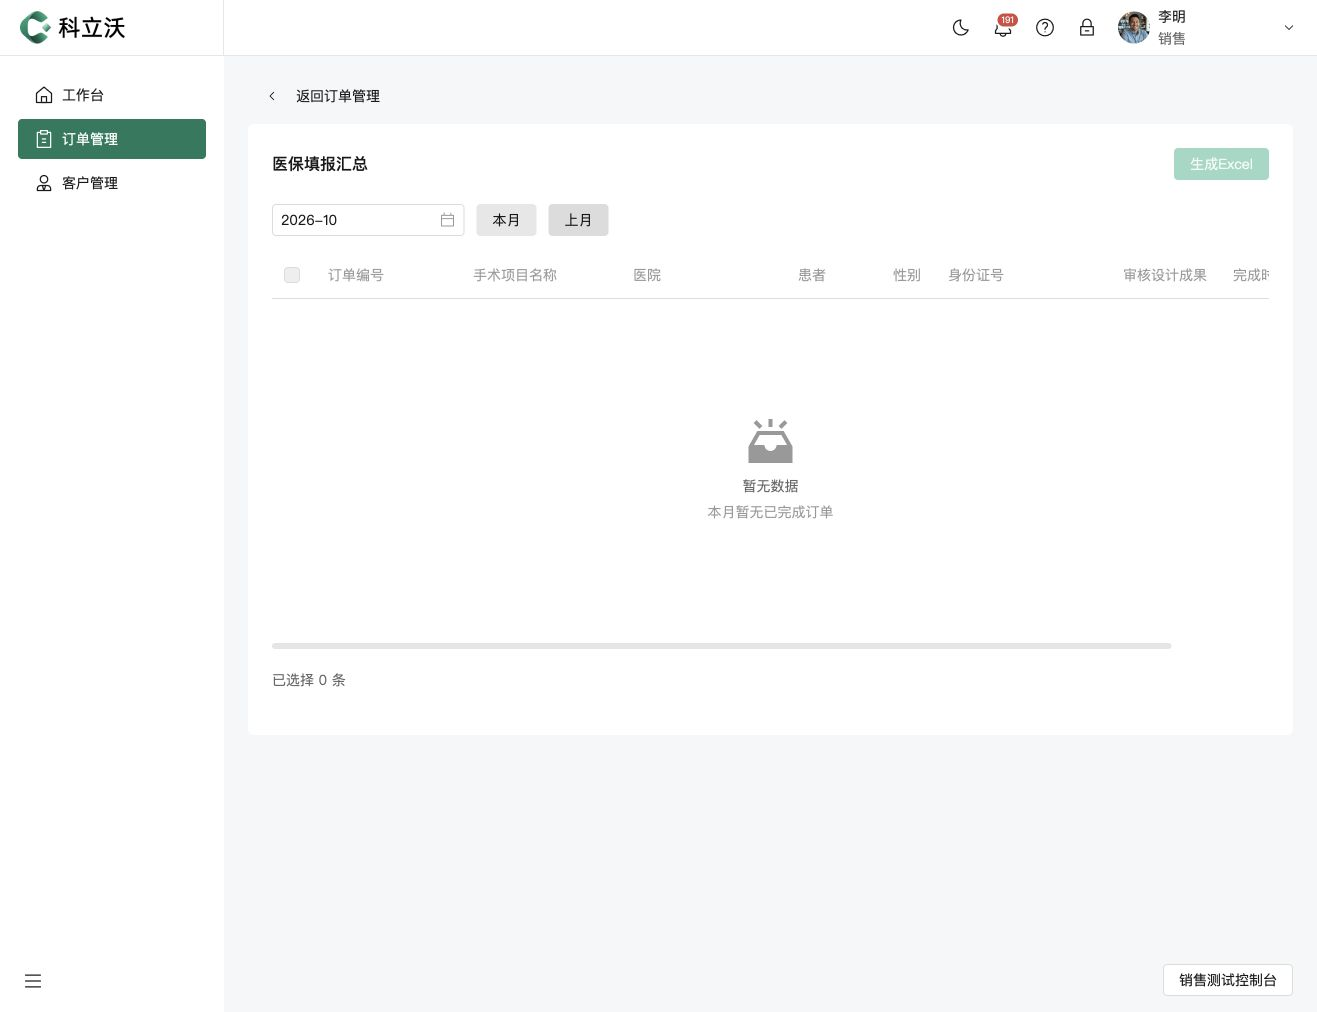
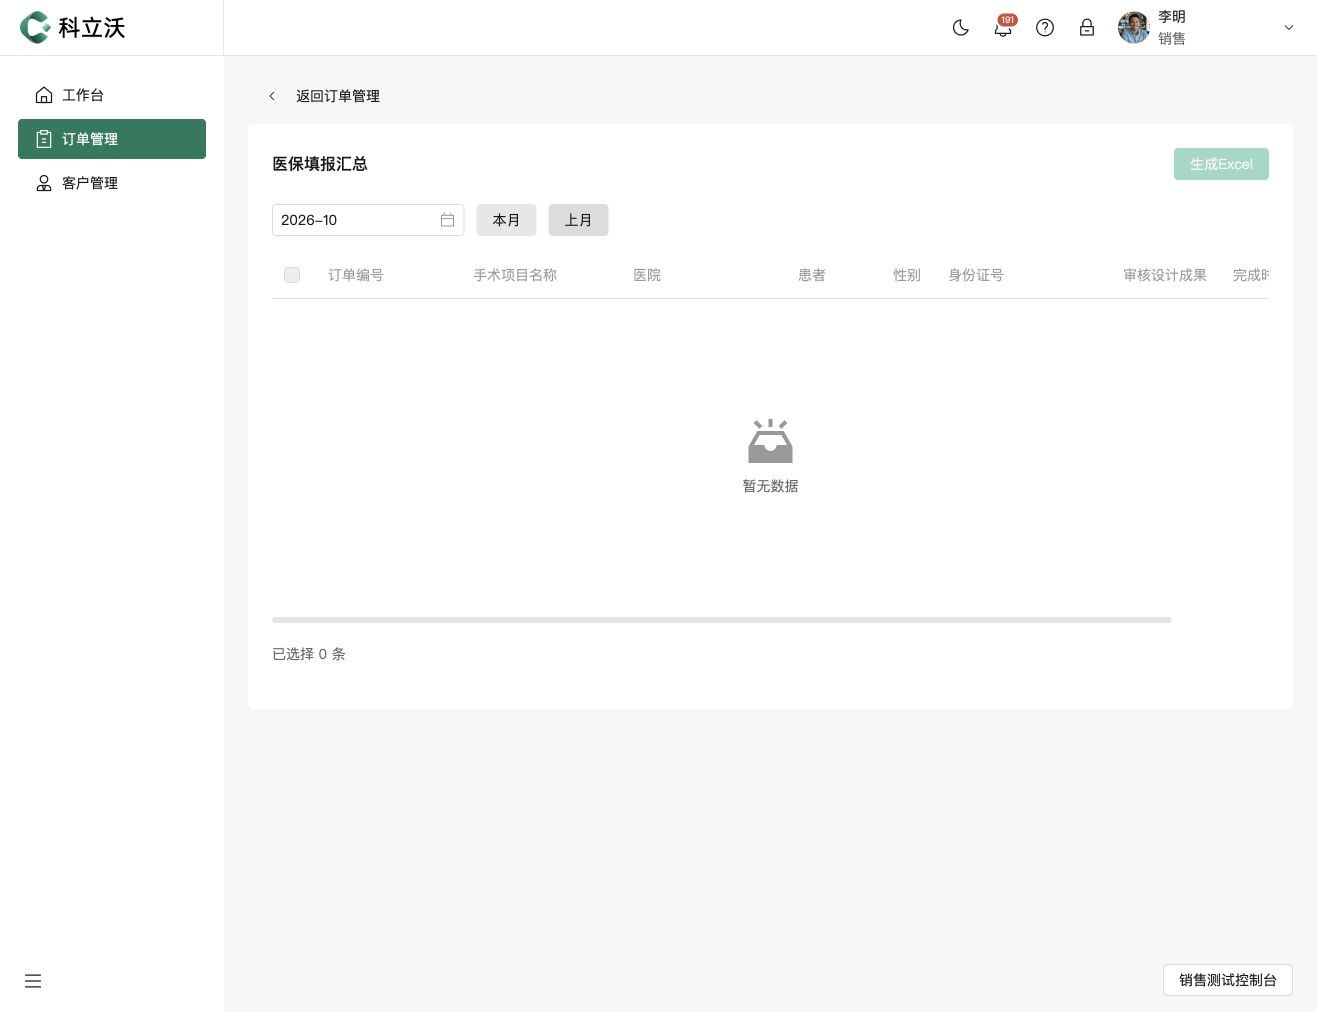
fix: remove redundant insurance empty description

Changed region(s): [[0.2179, 0.6126, 0.9028, 0.6739], [0.5292, 0.4901, 0.6226, 0.5208]]

diff --git a/src/sales/business/InsuranceSummary.tsx b/src/sales/business/InsuranceSummary.tsx
@@ -56,5 +56,5 @@ export function InsuranceSummary({ cancel, data }: {
             setBusy(false);
         }
     };
-    return <div className="project-page project-detail-page business-insurance"><PageBack label="返回订单管理" onBack={cancel}/><Card bordered={false} className="project-info-card"><div className="project-page-heading"><h2>医保填报汇总</h2><Button theme="primary" disabled={!allowed || !ids.length} loading={busy} onClick={() => void exporting()}>生成Excel</Button></div><div className="sales-actions business-month-filter"><DatePicker mode="month" value={month} onChange={v => setMonth(String(v).slice(0, 7))}/><Button theme="default" onClick={() => setMonth(currentMonth())}>本月</Button><Button theme="default" onClick={() => { const d = new Date(); d.setDate(1); d.setMonth(d.getMonth() - 1); setMonth(`${d.getFullYear()}-${String(d.getMonth() + 1).padStart(2, '0')}`); }}>上月</Button></div><div className="viewport-table" ref={paging.ref}><Table tableLayout="fixed" loading={busy} rowKey="id" data={orders.slice(paging.start,paging.end)} selectedRowKeys={ids} onSelectChange={setIds} empty={<Empty description="本月暂无已完成订单"/>} columns={[{ colKey: 'row-select', type: 'multiple', width: 40 }, { colKey: 'businessNo', title: '订单编号', width: 145, ellipsis: true }, { colKey: 'surgery', title: '手术项目名称', width: 160, ellipsis: true, cell: ({ row }) => row.surgery || '—' }, { colKey: 'hospital', title: '医院', width: 165, ellipsis: true }, { colKey: 'patientName', title: '患者', width: 95 }, { colKey: 'sex', title: '性别', width: 55, cell: ({ row }) => row.sex || '—' }, { colKey: 'maskedIdentity', title: '身份证号', width: 175, cell: ({ row }) => row.maskedIdentity || '—' }, { colKey: 'image', title: '审核设计成果', width: 110, cell: ({ row }) => row.image ? <button className="business-result-thumb" aria-label={'预览' + row.businessNo + '成果'} onClick={() => setPreview(row.image)}><img src={row.image} alt={row.businessNo + '审核设计成果'}/></button> : '—' }, { colKey: 'completedAt', title: '完成时间', width: 160, cell: ({ row }) => formatDateTime(row.completedAt) }]}/><div className="project-pagination business-insurance-pagination" data-viewport-pagination><span>已选择 {ids.length} 条</span>{paging.showPagination&&<Pagination current={paging.page} pageSize={paging.pageSize} total={orders.length} showPageSize={false} showJumper={false} onCurrentChange={paging.setPage}/>}</div></div>{error && <Alert theme="error" message={error}/>}</Card><ImageViewer visible={!!preview} images={preview ? [preview] : []} onClose={() => setPreview('')}/></div>;
+    return <div className="project-page project-detail-page business-insurance"><PageBack label="返回订单管理" onBack={cancel}/><Card bordered={false} className="project-info-card"><div className="project-page-heading"><h2>医保填报汇总</h2><Button theme="primary" disabled={!allowed || !ids.length} loading={busy} onClick={() => void exporting()}>生成Excel</Button></div><div className="sales-actions business-month-filter"><DatePicker mode="month" value={month} onChange={v => setMonth(String(v).slice(0, 7))}/><Button theme="default" onClick={() => setMonth(currentMonth())}>本月</Button><Button theme="default" onClick={() => { const d = new Date(); d.setDate(1); d.setMonth(d.getMonth() - 1); setMonth(`${d.getFullYear()}-${String(d.getMonth() + 1).padStart(2, '0')}`); }}>上月</Button></div><div className="viewport-table" ref={paging.ref}><Table tableLayout="fixed" loading={busy} rowKey="id" data={orders.slice(paging.start,paging.end)} selectedRowKeys={ids} onSelectChange={setIds} empty={<Empty/>} columns={[{ colKey: 'row-select', type: 'multiple', width: 40 }, { colKey: 'businessNo', title: '订单编号', width: 145, ellipsis: true }, { colKey: 'surgery', title: '手术项目名称', width: 160, ellipsis: true, cell: ({ row }) => row.surgery || '—' }, { colKey: 'hospital', title: '医院', width: 165, ellipsis: true }, { colKey: 'patientName', title: '患者', width: 95 }, { colKey: 'sex', title: '性别', width: 55, cell: ({ row }) => row.sex || '—' }, { colKey: 'maskedIdentity', title: '身份证号', width: 175, cell: ({ row }) => row.maskedIdentity || '—' }, { colKey: 'image', title: '审核设计成果', width: 110, cell: ({ row }) => row.image ? <button className="business-result-thumb" aria-label={'预览' + row.businessNo + '成果'} onClick={() => setPreview(row.image)}><img src={row.image} alt={row.businessNo + '审核设计成果'}/></button> : '—' }, { colKey: 'completedAt', title: '完成时间', width: 160, cell: ({ row }) => formatDateTime(row.completedAt) }]}/><div className="project-pagination business-insurance-pagination" data-viewport-pagination><span>已选择 {ids.length} 条</span>{paging.showPagination&&<Pagination current={paging.page} pageSize={paging.pageSize} total={orders.length} showPageSize={false} showJumper={false} onCurrentChange={paging.setPage}/>}</div></div>{error && <Alert theme="error" message={error}/>}</Card><ImageViewer visible={!!preview} images={preview ? [preview] : []} onClose={() => setPreview('')}/></div>;
 }
